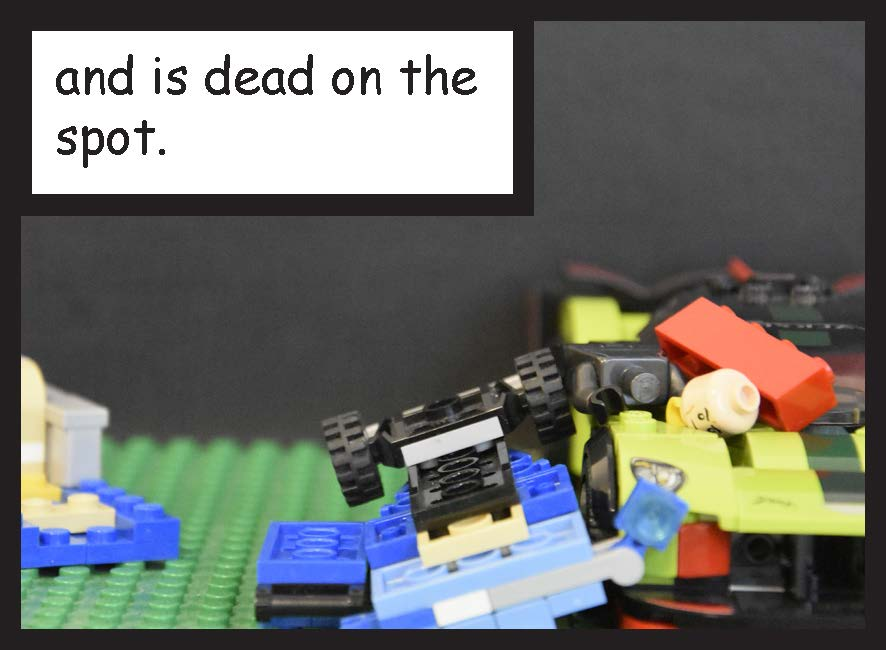
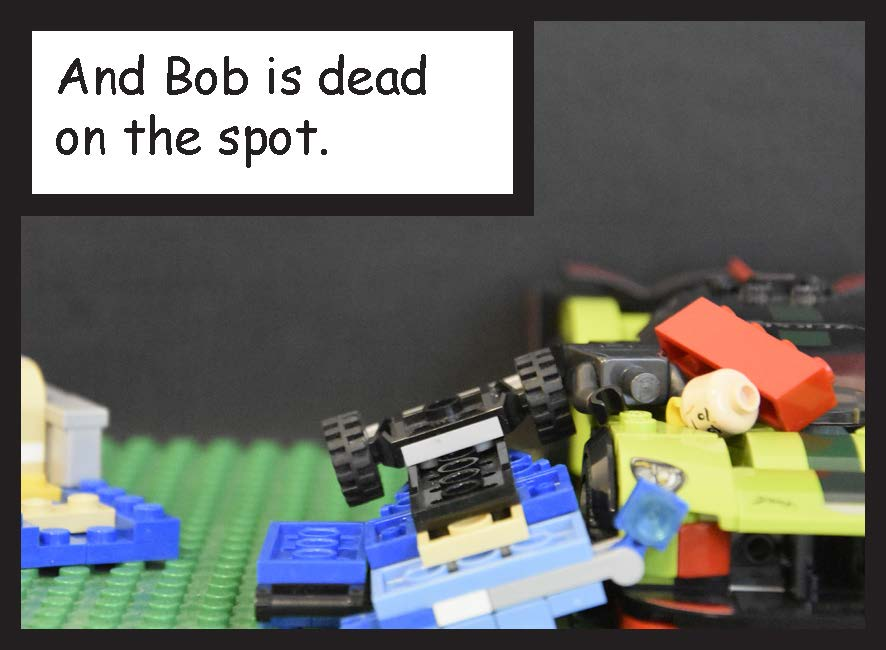
fixd speling

Changed region(s): [[0.0609, 0.0615, 0.5485, 0.1538], [0.0609, 0.1846, 0.3657, 0.2462]]

diff --git a/index.html b/index.html
@@ -36,8 +36,8 @@
         }
 
         img {
-            width: 886px;
-            height: 650px;
+            width: 700px;
+            height: 550px;
         }
 
         #image {
